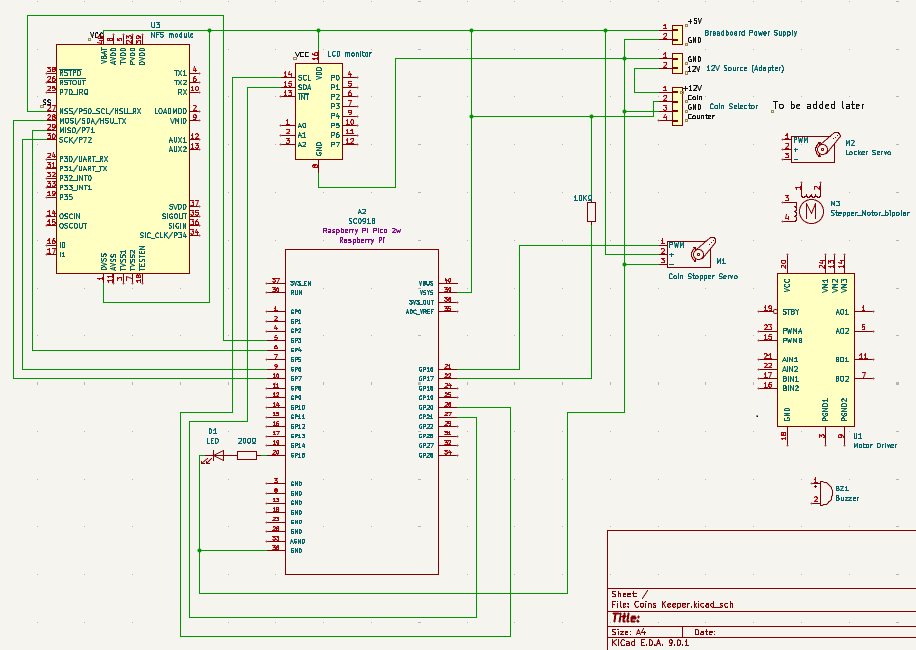
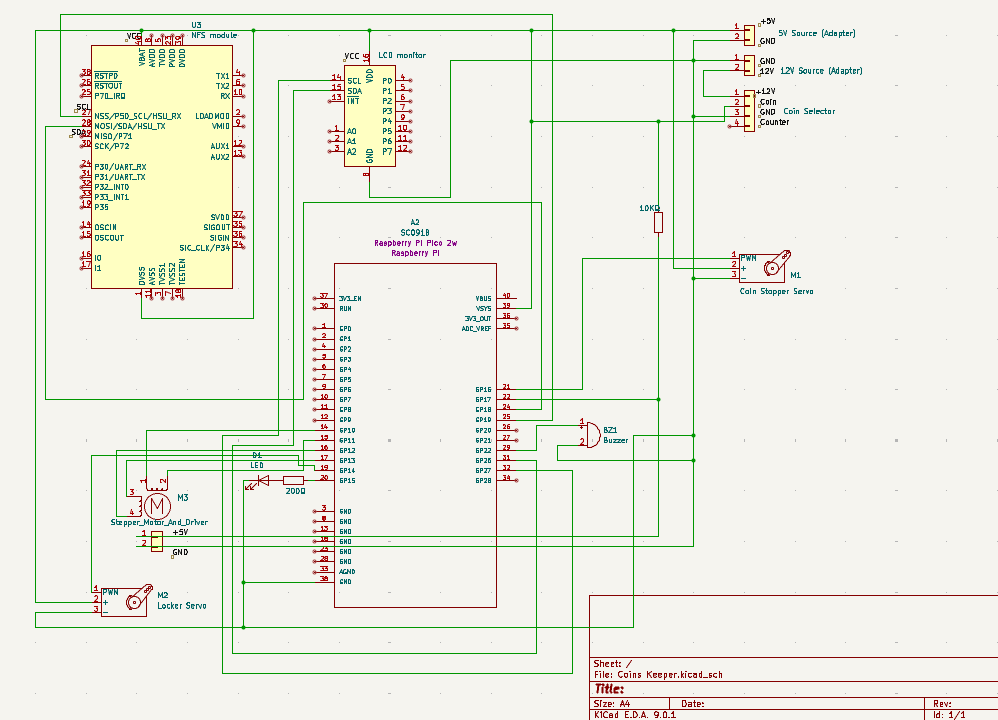
Hardware documentation updated

diff --git a/website/versioned_docs/version-fils_en/project/2025/vladyslav.kiselar/index.md b/website/versioned_docs/version-fils_en/project/2025/vladyslav.kiselar/index.md
@@ -31,9 +31,6 @@ Once the coin is successfully deposited, the display is updated to show the curr
 For collecting the stored coins, the system integrates a locking mechanism. A metal latch is mechanically actuated by a servo motor. This acts as an electronically controlled lock. To unlock the compartment, the user must authenticate using an NFC module. If the scanned card/tag is authorized, the servo moves the latch to allow access.
 
 ![Architecture Diagram](architecture_diagram.webp)  
-*As of now, at the Week 5-11 May, DC jack module is being used to power the coin selector, while all other components are running on a battery supply. This setup is inefficient and not fully reliable, as the battery struggles to provide stable power for continuous operation of the system.*
-
-*Looking ahead, a voltage regulator is planned to supply power to both the coin selector and all other modules from a single source. However, it remains an open question whether this setup will deliver sufficient current for stable and reliable operation of the entire system.*
 
 
 ## Log
@@ -56,6 +53,20 @@ Looking forward, the plan is to introduce a voltage regulator to supply both the
 
 ### Week 12 - 18 May
 
+This week marked a significant step forward in finalizing the physical structure and improving power stability. I successfully introduced a voltage regulator module to convert 12V input down to 5V, which now supplies power to both the coin selector and all other components. This change eliminates the need for a separate 9V battery and has greatly improved system stability and reliability under continuous operation.
+
+![Voltage Regulator 1](voltage_regulator1.webp)  
+
+![Voltage Regulator 2](voltage_regulator2.webp)  
+
+With the electronics now reliably powered, I moved on to constructing the final enclosure. The entire prototype has been rebuilt using LEGO bricks, replacing the earlier cardboard mock-up. This new “home” includes well-structured coin sorting boxes, each custom-built from LEGO to match the coin types and sorting paths.
+
+![Hardware Components 1](hardware_components1.webp)  
+
+Additionally, I installed a locking mechanism for the coin collection compartment using a servo-controlled door system. The enclosure also features cleanly cut access ports, allowing easy connection to a 12V power source and facilitating code uploads to the Raspberry Pi Pico via USB without disassembling the setup.
+
+![Hardware Components 3](hardware_components3.webp)
+
 ### Week 19 - 25 May
 
 ## Hardware
@@ -64,16 +75,15 @@ The control logic of Coins Keeper is implemented on Raspberry Pi Pico 2W boards.
 
 A 16x2 I2C LCD displays the current balance and system messages, while a passive buzzer and status LED provide audio and visual feedback. An NFC reader module is integrated for access control. When an authorized NFC card or tag is scanned, the system activates a servo-driven physical latch to unlock the compartment — securing the coins from unauthorized access.
 
-![Hardware](hardware.webp) 
+![Hardware Components 2](hardware_components2.webp)
 
-Most components are currently wired on a breadboard and mounted inside a cardboard test box to prototype layout and positioning. In the final version, the housing and compartments will be built from LEGO bricks, with parts fixed in place using a hot glue gun. Coin bins are yet to be implemented but will also be constructed from LEGO.
+Most components are now permanently wired and installed inside a LEGO-built enclosure. All servos, stepper motors, and sensors are connected, and coin bins have been fully constructed from LEGO to match sorting paths. Parts are fixed in place using a hot glue gun for stability.
 
-For now, the coin selector runs on 12V via a DC jack, while all other components are powered through a 5V breadboard power module connected to a 9V battery. A voltage regulator is planned to power the entire system from a single 12V input, though its ability to handle total current demand is still under evaluation.
+The system is now powered from a single 12V input through a voltage regulator that steps down to 5V, supplying all components including the coin selector. This setup has replaced the previous 9V battery and breadboard power module, and has proven to be more stable during ongoing system testing.
 
 ### Schematics
 
 ![KiCad Schematic](KiCad.webp)  
-*Not final version - not all components are connected yet.*
 
 ### Bill of Materials
 
